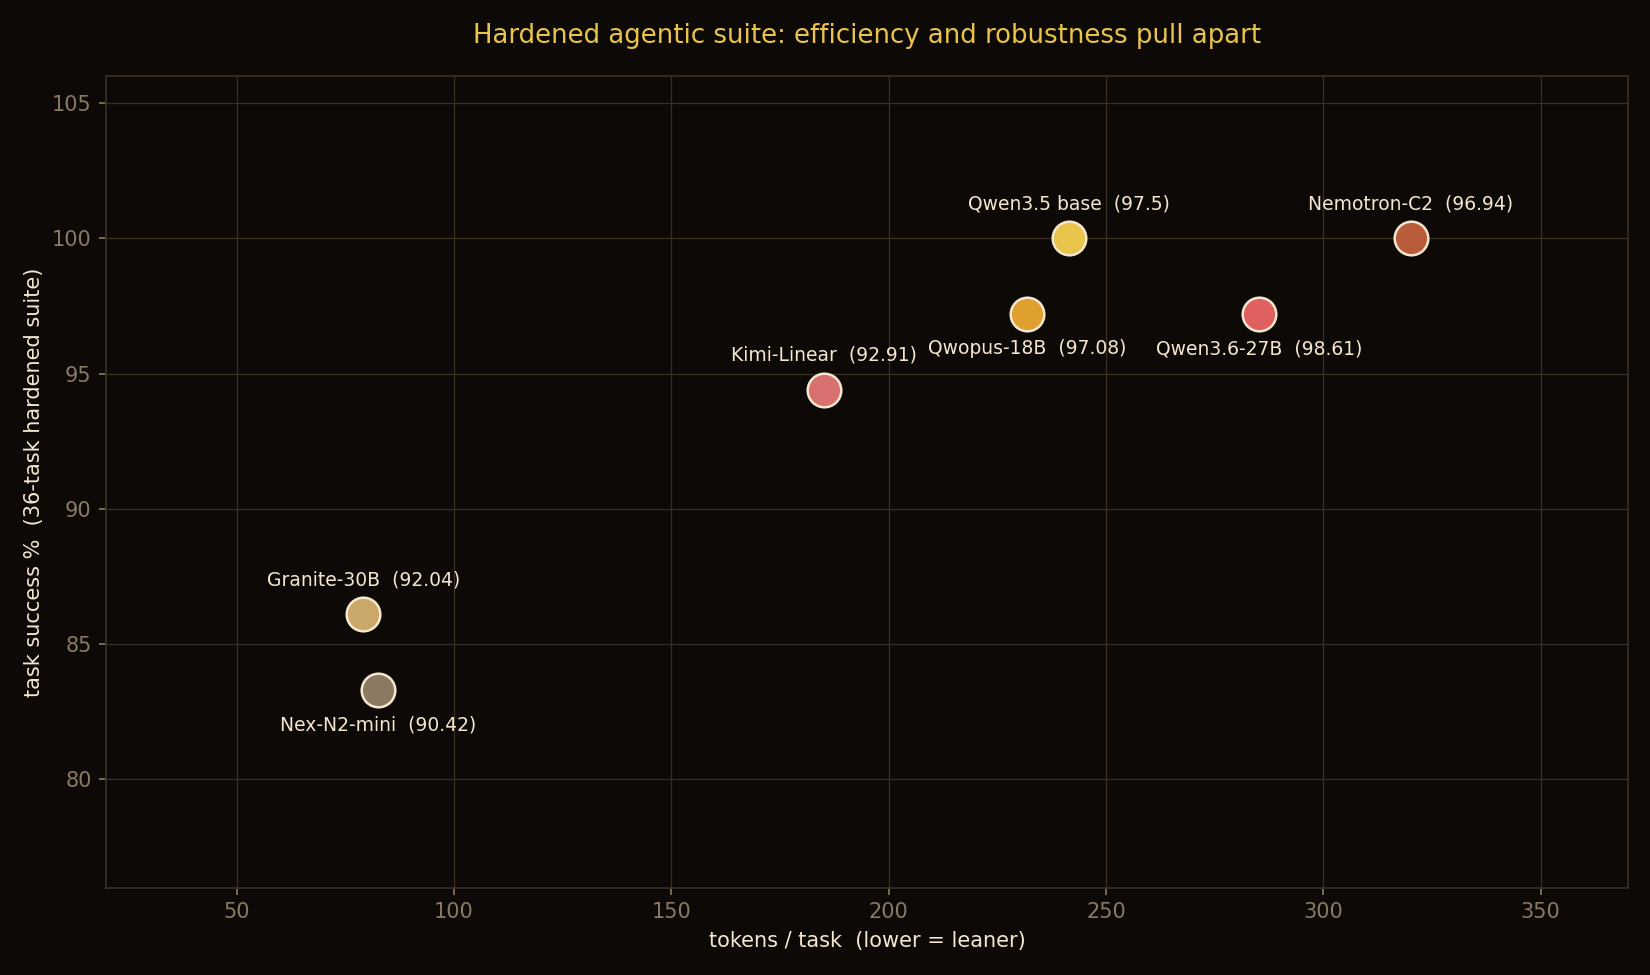
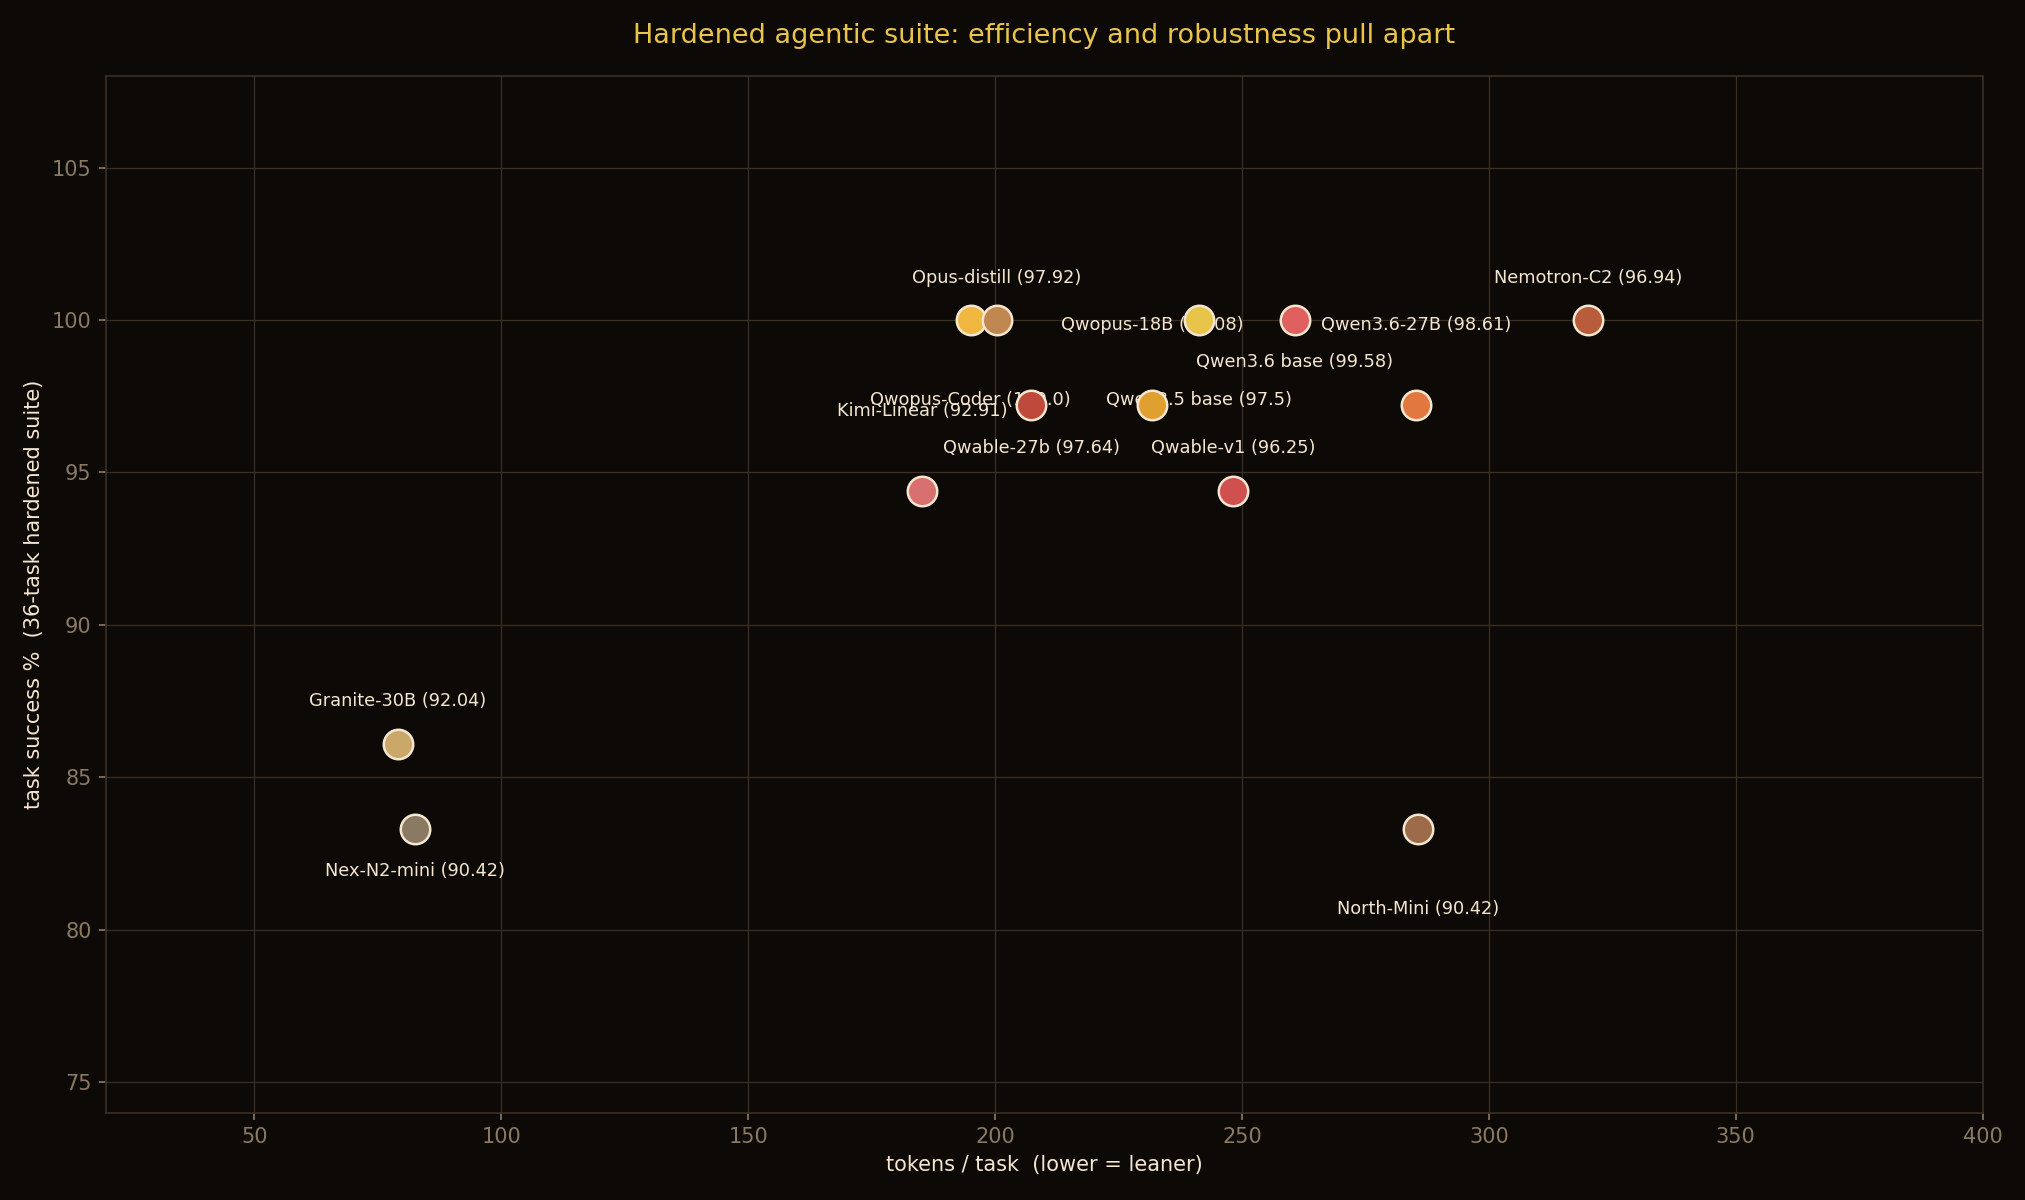
Qwable-3.6-27b: Fable-5 distill regresses real SWE -7 at matched Q4, synthetic missed it
Controlled vs its Qwen3.6-27B base at matched Q4_K_M. Quality (93.4 vs 94.0) and agentic
score (97.64 vs 98.19) stay flat; real SWE-bench Verified drops 18->11/30, give-ups 7->13.
Quant ruled out (base Q6->Q4 = -1 bug). The synthetic agentic board would call it neutral;
the reality anchor caught it -- 3rd documented failure mode. Adds report + flat-cliff chart
+ Qwable row on the agentic leaderboard (now 13 models).

diff --git a/scripts/build_agentic_leaderboard.py b/scripts/build_agentic_leaderboard.py
@@ -7,7 +7,7 @@ import json, csv
 from collections import Counter
 from pathlib import Path
 
-DATE = "2026-06-12"  # stamp; bench rig has no live clock in workflow contexts
+DATE = "2026-06-17"  # stamp; bench rig has no live clock in workflow contexts
 
 # slug -> display metadata (the result JSON carries the metrics; this carries identity)
 META = {
@@ -42,6 +42,9 @@ META = {
     "qwable-v1":           {"name": "Qwable-v1", "params": "35B-A3B", "quant": "Q5_K_M",
                             "repo": "lordx64/Qwable-v1-GGUF",
                             "note": "base + Opus-4.7 reasoning distill + Fable-5 agentic SFT. Each step LOWERS the agentic score (99.58→97.92→96.25) and real resolve drops 19→11/30 vs the vanilla base — the distillation regressed agentic-coding capability (not a mirage: synthetic fairly predicts real here)"},
+    "qwable-27b-q4-k-m":   {"name": "Qwable-3.6-27b", "params": "27B", "quant": "Q4_K_M",
+                            "repo": "Mia-AiLab/Qwable-3.6-27b",
+                            "note": "dense Qwen3.6-27B + Fable-5-style reasoning/instruction SFT. Matched-Q4 vs its base: quality AND agentic stay flat (97.64 vs 98.19), but real SWE-bench resolve drops 18→11/30 and give-ups rise 7→13 — a genuine bug-fixing regression the synthetic score MISSED (unlike the MoE Qwable-v1, whose agentic score declined). The anchor caught it; quant ruled out (base Q6→Q4 = −1 bug)"},
 }
 
 rows = []
@@ -143,11 +146,13 @@ not blended into the score (so a 128K VRAM wall doesn't corrupt it):
 
 Calibration-grade (synthetic, deterministic, re-runnable) — and **reality-anchored**: across all 8 models on
 30 real SWE-bench Verified bugs, the synthetic score predicts real-bug *rank* (Spearman ρ=0.76) and
-moderately predicts resolve rate (Pearson r=0.59). Two known failure modes, both caught by the anchor:
+moderately predicts resolve rate (Pearson r=0.59). Three known failure modes, all caught by the anchor:
 it over-ranks models that drive tools fluently but don't commit fixes (Nemotron-Cascade-2: synthetic #5,
-real last), and it over-ranks models whose training data overlaps the bench's flavor (Qwopus3.6-27B-Coder:
+real last); it over-ranks models whose training data overlaps the bench's flavor (Qwopus3.6-27B-Coder:
 trained on Hermes agent traces, posts a perfect 100 synthetic — then resolves fewer real bugs than its own
-base model, 57% vs 63%). Read the top of the board with the anchor open (see `reality-anchor/`).
+base model, 57% vs 63%); and it can **miss a regression entirely** when a distill stays in-distribution on
+the synthetic tasks yet gives up on real bugs (Qwable-3.6-27b: agentic flat vs its base, yet real SWE-bench
+resolve 11/30 vs 18/30 at matched Q4). Read the top of the board with the anchor open (see `reality-anchor/`).
 Harness + unit tests: **[notwitcheer/llm-bench-rig](https://github.com/notwitcheer/llm-bench-rig)**
 (`lib/agentic/native/`).
 

diff --git a/scripts/chart_qwable_27b.py b/scripts/chart_qwable_27b.py
@@ -1,0 +1,50 @@
+"""Gold & Crimson chart for Qwable-3.6-27b: the distill effect is invisible on every cheap eval and
+only shows up on real bugs. Parallel-coordinates 'flat-flat-cliff' — base vs distill across three axes
+(quality q_avg, agentic score, SWE-bench resolve %), all matched Q4_K_M. The two lines hug on quality
+and agentic, then split hard on SWE. Per-axis deltas annotated so the contrast (0.7/0.5 vs 23) is the
+story. Runs on the Mac (system python3 matplotlib)."""
+import matplotlib
+matplotlib.use("Agg")
+import matplotlib.pyplot as plt
+
+BG, GOLD, CRIMSON, TEXT, GRID, MUTE = ("#0d0906", "#e8c44a", "#e06060", "#f5e6d0", "#3a2f25", "#8a7a64")
+
+axes_labels = ["quality\nq_avg", "agentic\nscore", "SWE-bench\nresolve %"]
+x = [0, 1, 2]
+base   = [94.05, 98.19, 60.0]   # base quality is Q6_K (quant moves q_avg <1pt); agentic+SWE are Q4
+qwable = [93.40, 97.64, 36.7]
+deltas = ["Δ0.7", "Δ0.5", "Δ23  (−7 bugs)"]
+
+fig, ax = plt.subplots(figsize=(10, 6.5), facecolor=BG)
+ax.set_facecolor(BG)
+ax.plot(x, base,   color=GOLD,    lw=2.5, marker="o", markersize=9, zorder=3, label="Qwen3.6-27B base (Q4)")
+ax.plot(x, qwable, color=CRIMSON, lw=2.5, marker="o", markersize=9, zorder=3, label="Qwable-3.6-27b (Q4)")
+
+for xi, b, q, d in zip(x, base, qwable, deltas):
+    ax.annotate(f"{b:.1f}", (xi, b), color=GOLD, fontsize=12, fontweight="bold",
+                ha="center", va="bottom", xytext=(0, 8), textcoords="offset points")
+    ax.annotate(f"{q:.1f}", (xi, q), color=CRIMSON, fontsize=12, fontweight="bold",
+                ha="center", va="top", xytext=(0, -10), textcoords="offset points")
+    # delta callout only on the axis that matters (SWE) — the flat ones speak for themselves
+    if xi == 2:
+        ymid = (b + q) / 2
+        ax.annotate(d, (xi, ymid), color=CRIMSON, fontsize=13, fontweight="bold",
+                    ha="right", va="center", xytext=(-14, 0), textcoords="offset points")
+
+ax.set_xticks(x)
+ax.set_xticklabels(axes_labels, color=TEXT, fontsize=11)
+ax.set_xlim(-0.35, 2.55)
+ax.set_ylim(32, 103)
+ax.set_ylabel("score (higher = better, all 0-100)", color=TEXT)
+ax.set_title("every cheap eval says the distill is fine. real bugs say it gave up.",
+             color=GOLD, fontsize=14, pad=18)
+ax.text(0.5, 1.015, "Qwable-3.6-27b vs its Qwen3.6-27B base · matched Q4_K_M · give-ups 7→13 · quant (Q6→Q4) cost the base only 1 bug",
+        transform=ax.transAxes, color=MUTE, fontsize=9.5, ha="center")
+ax.tick_params(colors=TEXT)
+for sp in ax.spines.values():
+    sp.set_color(GRID)
+ax.grid(True, axis="y", color=GRID, alpha=0.4)
+leg = ax.legend(loc="lower left", facecolor=BG, edgecolor=GRID, fontsize=10, labelcolor=TEXT)
+fig.tight_layout()
+fig.savefig("reports/qwable-27b-flat-cliff.png", dpi=150, facecolor=BG)
+print("wrote reports/qwable-27b-flat-cliff.png")

diff --git a/scripts/chart_agentic_leaderboard.py b/scripts/chart_agentic_leaderboard.py
@@ -9,12 +9,13 @@ import numpy as np
 BG, GOLD, CRIMSON, TEXT, GRID, MUTE = ("#0d0906", "#e8c44a", "#e06060", "#f5e6d0", "#3a2f25", "#8a7a64")
 AMBER = "#d8902f"
 
-# 12-model board (ordered by Agentic Score). Warm brand palette, varied for legibility.
+# 13-model board (ordered by Agentic Score). Warm brand palette, varied for legibility.
 MODELS = [
     ("qwopus3-6-27b-coder", "Qwopus3.6-27B-Coder",    "#f0b840"),
     ("qwen3-6-35b-base",    "Qwen3.6-35B-A3B (base)", CRIMSON),
     ("qwen3-6-27b",         "Qwen3.6-27B",            "#e07840"),
     ("qwen3-6-35b-opus-distill", "Qwen3.6-35B Opus-distill", "#c08850"),
+    ("qwable-27b-q4-k-m",   "Qwable-3.6-27b",         "#bf4a3c"),
     ("qwen3-5-35b-base",    "Qwen3.5-35B-A3B (base)", GOLD),
     ("qwopus-glm-18b",      "Qwopus-GLM-18B",         "#e0a030"),
     ("nemotron-cascade-2-30b", "Nemotron-Cascade-2-30B", "#b85c3c"),
@@ -41,7 +42,8 @@ SHORT = {"qwen3-6-27b": "Qwen3.6-27B", "qwen3-5-35b-base": "Qwen3.5 base",
          "kimi-linear-48b-a3b": "Kimi-Linear", "granite-4-1-30b": "Granite-30B",
          "nex-n2-mini": "Nex-N2-mini", "qwopus3-6-27b-coder": "Qwopus-Coder",
          "north-mini-code": "North-Mini", "qwen3-6-35b-base": "Qwen3.6 base",
-         "qwen3-6-35b-opus-distill": "Opus-distill", "qwable-v1": "Qwable-v1"}
+         "qwen3-6-35b-opus-distill": "Opus-distill", "qwable-v1": "Qwable-v1",
+         "qwable-27b-q4-k-m": "Qwable-27b"}
 fig, ax = plt.subplots(figsize=(13.5, 8), facecolor=BG); ax.set_facecolor(BG)
 # sort by x (tokens) and alternate label up/down so x-adjacent points never collide
 by_x = sorted(MODELS, key=lambda m: D[m[0]]["tokens_per_task"])

diff --git a/leaderboard/README.md b/leaderboard/README.md
@@ -18,21 +18,25 @@ How well do local models actually **drive a tool-using agent loop**? Not single-
 benchmarks — a real loop: native OpenAI tool-calling through `llama-server`, multi-step deterministic
 tasks, programmatic verification. Everything runs on a **single RTX 5090 32GB**.
 
-Updated **2026-06-12** · llama.cpp b9562 · `--jinja` native tool-calling · temp 0.
+Updated **2026-06-17** · llama.cpp b9562 · `--jinja` native tool-calling · temp 0.
 
 ## Leaderboard
 
 | # | model | params | Agentic Score | success | tool-eff | tokens/task | chain | multistep | coding | lc@32k | lc@128k |
 |---|---|---|---|---|---|---|---|---|---|---|---|
 | 1 | **Qwopus3.6-27B-Coder** 🏆 | 27B | **100.0** | 100% | 1.00 | 195 | 8/8 | 8/8 | 8/8 | - | - |
-| 2 | **Qwen3.6-27B** | 27B | **98.61** | 97% | 1.00 | 285 | 8/8 | 8/8 | 8/8 | 100% | 100% |
-| 3 | **Qwen3.5-35B-A3B (base)** | 35B-A3B | **97.5** | 100% | 0.88 | 241 | 8/8 | 8/8 | 8/8 | 100% | 50% |
-| 4 | **Qwopus-GLM-18B** | 18B | **97.08** | 97% | 0.92 | 232 | 8/8 | 8/8 | 8/8 | 100% | 100% |
-| 5 | **Nemotron-Cascade-2-30B** | 30B-A3B | **96.94** | 100% | 0.85 | 320 | 8/8 | 8/8 | 8/8 | 50% | 0% |
-| 6 | **Kimi-Linear-48B-A3B** | 48B-A3B | **92.91** | 94% | 0.78 | 185 | 7/8 | 7/8 | 8/8 | 100% | 100% |
-| 7 | **Granite-4.1-30b** | 30B | **92.04** | 86% | 0.95 | 79 | 8/8 | 8/8 | 7/8 | 50% | OOM |
-| 8 | **Nex-N2-mini** | 35B-A3B | **90.42** | 83% | 0.94 | 82 | 7/8 | 7/8 | 7/8 | 100% | 100% |
-| 9 | **North-Mini-Code-1.0** | 30B-A3B | **90.42** | 83% | 0.94 | 286 | 6/8 | 6/8 | 8/8 | - | - |
+| 2 | **Qwen3.6-35B-A3B (base)** | 35B-A3B | **99.58** | 100% | 0.98 | 261 | 8/8 | 8/8 | 8/8 | - | - |
+| 3 | **Qwen3.6-27B** | 27B | **98.61** | 97% | 1.00 | 285 | 8/8 | 8/8 | 8/8 | 100% | 100% |
+| 4 | **Qwen3.6-35B-A3B Opus-distill** | 35B-A3B | **97.92** | 100% | 0.90 | 200 | 8/8 | 8/8 | 8/8 | - | - |
+| 5 | **Qwable-3.6-27b** | 27B | **97.64** | 97% | 0.95 | 207 | 8/8 | 8/8 | 8/8 | - | - |
+| 6 | **Qwen3.5-35B-A3B (base)** | 35B-A3B | **97.5** | 100% | 0.88 | 241 | 8/8 | 8/8 | 8/8 | 100% | 50% |
+| 7 | **Qwopus-GLM-18B** | 18B | **97.08** | 97% | 0.92 | 232 | 8/8 | 8/8 | 8/8 | 100% | 100% |
+| 8 | **Nemotron-Cascade-2-30B** | 30B-A3B | **96.94** | 100% | 0.85 | 320 | 8/8 | 8/8 | 8/8 | 50% | 0% |
+| 9 | **Qwable-v1** | 35B-A3B | **96.25** | 94% | 0.95 | 248 | 7/8 | 8/8 | 8/8 | - | - |
+| 10 | **Kimi-Linear-48B-A3B** | 48B-A3B | **92.91** | 94% | 0.78 | 185 | 7/8 | 7/8 | 8/8 | 100% | 100% |
+| 11 | **Granite-4.1-30b** | 30B | **92.04** | 86% | 0.95 | 79 | 8/8 | 8/8 | 7/8 | 50% | OOM |
+| 12 | **Nex-N2-mini** | 35B-A3B | **90.42** | 83% | 0.94 | 82 | 7/8 | 7/8 | 7/8 | 100% | 100% |
+| 13 | **North-Mini-Code-1.0** | 30B-A3B | **90.42** | 83% | 0.94 | 286 | 6/8 | 6/8 | 8/8 | - | - |
 
 *tool-eff = tool calls vs optimal (1.0 = no wasted calls). tokens/task = avg completion tokens (lower =
 leaner). A sub-5% score gap is a tie.*
@@ -59,21 +63,27 @@ not blended into the score (so a 128K VRAM wall doesn't corrupt it):
 
 Calibration-grade (synthetic, deterministic, re-runnable) — and **reality-anchored**: across all 8 models on
 30 real SWE-bench Verified bugs, the synthetic score predicts real-bug *rank* (Spearman ρ=0.76) and
-moderately predicts resolve rate (Pearson r=0.59). Two known failure modes, both caught by the anchor:
+moderately predicts resolve rate (Pearson r=0.59). Three known failure modes, all caught by the anchor:
 it over-ranks models that drive tools fluently but don't commit fixes (Nemotron-Cascade-2: synthetic #5,
-real last), and it over-ranks models whose training data overlaps the bench's flavor (Qwopus3.6-27B-Coder:
+real last); it over-ranks models whose training data overlaps the bench's flavor (Qwopus3.6-27B-Coder:
 trained on Hermes agent traces, posts a perfect 100 synthetic — then resolves fewer real bugs than its own
-base model, 57% vs 63%). Read the top of the board with the anchor open (see `reality-anchor/`).
+base model, 57% vs 63%); and it can **miss a regression entirely** when a distill stays in-distribution on
+the synthetic tasks yet gives up on real bugs (Qwable-3.6-27b: agentic flat vs its base, yet real SWE-bench
+resolve 11/30 vs 18/30 at matched Q4). Read the top of the board with the anchor open (see `reality-anchor/`).
 Harness + unit tests: **[notwitcheer/llm-bench-rig](https://github.com/notwitcheer/llm-bench-rig)**
 (`lib/agentic/native/`).
 
 ## Notes per model
 
 - **Qwopus3.6-27B-Coder** (Jackrong/Qwopus3.6-27B-Coder-MTP-GGUF): coder SFT of Qwopus3.6-v2; trained on Hermes agent traces — partially in-distribution for this bench (see reality anchor)
+- **Qwen3.6-35B-A3B (base)** (unsloth/Qwen3.6-35B-A3B-GGUF): vanilla generalist base — Qwable's untuned starting point; tops the board and ties best real SWE-bench resolve (19/30)
 - **Qwen3.6-27B** (unsloth/Qwen3.6-27B-GGUF): dense 27B; the model Donald itself runs
+- **Qwen3.6-35B-A3B Opus-distill** (mradermacher/Qwen3.6-35B-A3B-Claude-4.7-Opus-Reasoning-Distilled-GGUF): base + Claude Opus-4.7 reasoning distill — the intermediate step before Qwable's Fable-5 agentic SFT
+- **Qwable-3.6-27b** (Mia-AiLab/Qwable-3.6-27b): dense Qwen3.6-27B + Fable-5-style reasoning/instruction SFT. Matched-Q4 vs its base: quality AND agentic stay flat (97.64 vs 98.19), but real SWE-bench resolve drops 18→11/30 and give-ups rise 7→13 — a genuine bug-fixing regression the synthetic score MISSED (unlike the MoE Qwable-v1, whose agentic score declined). The anchor caught it; quant ruled out (base Q6→Q4 = −1 bug)
 - **Qwen3.5-35B-A3B (base)** (bartowski/Qwen_Qwen3.5-35B-A3B-GGUF): generalist base, no agentic post-train
 - **Qwopus-GLM-18B** (KyleHessling1/Qwopus-GLM-18B-Merged-GGUF): GLM-based community merge
 - **Nemotron-Cascade-2-30B** (bartowski/nvidia_Nemotron-Cascade-2-30B-A3B-GGUF): Nvidia; the rig's prior speed-king
+- **Qwable-v1** (lordx64/Qwable-v1-GGUF): base + Opus-4.7 reasoning distill + Fable-5 agentic SFT. Each step LOWERS the agentic score (99.58→97.92→96.25) and real resolve drops 19→11/30 vs the vanilla base — the distillation regressed agentic-coding capability (not a mirage: synthetic fairly predicts real here)
 - **Kimi-Linear-48B-A3B** (bartowski/moonshotai_Kimi-Linear-48B-A3B-Instruct-GGUF): linear-attention; runs natively on one 5090; long-context untested here
 - **Granite-4.1-30b** (unsloth/granite-4.1-30b-GGUF): leanest competent agent on the board
 - **Nex-N2-mini** (eramax/Nex-N2-mini-gguf): agentic post-train of Qwen3.5; Adaptive Thinking

diff --git a/reports/qwable-3.6-27b-q4.md b/reports/qwable-3.6-27b-q4.md
@@ -1,0 +1,38 @@
+# Qwable-3.6-27b: the distill every cheap eval passes and SWE-bench fails
+
+**Rig:** one RTX 5090 32GB · llama.cpp 9dbc662 (qwen35) · llama-server `--jinja` native tool-calling · Q4_K_M, base vs distill matched (no quant confound)
+**Model:** [Mia-AiLab/Qwable-3.6-27b](https://huggingface.co/Mia-AiLab/Qwable-3.6-27b) — a full finetune of **Qwen3.6-27B** (dense) on a *"cleaned Fable-5-style reasoning/instruction"* dataset, aimed at "deliberate, structured, trace-like" coding behavior. Experimental, no published evals. Ships **only as a Q4_K_M GGUF** (no safetensors).
+**Setup:** the rig's native Agentic Score (40 tool-calling tasks) + the SWE-bench Verified reality anchor (30-bug subset, official Docker harness) + the 5-task quality suite. Controlled vs its own base **Qwen3.6-27B at the same Q4_K_M** — and because Qwable only exists at Q4, we benched the base at Q4 too, so any gap is the distill, not the quant.
+
+## The numbers (matched Q4_K_M)
+
+| axis | Qwen3.6-27B base | Qwable-3.6-27b | distill effect |
+|---|---|---|---|
+| quality q_avg | 94.05\* | 93.40 | −0.65 (flat) |
+| agentic score | 98.19 | 97.64 | −0.55 (flat) |
+| **SWE-bench resolved** | **18/30 (60%)** | **11/30 (37%)** | **−7 bugs** |
+| **give-ups (empty patches)** | **7** | **13** | **+6** |
+
+<sub>\*base quality is Q6_K (we skipped base-Q4 quality); quant moves q_avg <1pt. Agentic task-success is **identical** at 97.2% — the score gap is tool-efficiency only.</sub>
+
+**Static quality flat. Synthetic agentic flat. Real bug-fixing fell off a cliff.** The distill resolves 7 fewer of the *same* 30 bugs and gives up almost twice as often — while two cheaper benchmarks shrug.
+
+## Quant is not the excuse
+
+Qwable only ships at Q4_K_M, so we benched the base at Q4 too. Q6→Q4 on the base cost **1 bug** (19→18) and merely *reshuffled* ~3 instances — a minor, near-random perturbation. On agentic the quant cost (−0.42, 98.61→98.19) and the distill cost (−0.55) are the same negligible order — *neither* cheap benchmark separates these models. Only the real bugs do: the −7 is the post-training, full stop.
+
+## What it means
+
+- **The give-up tell, hidden.** The 8 bugs the base solved that Qwable abandoned span **6 projects** (astropy, matplotlib ×2, requests, xarray ×2, scikit-learn, sphinx) — distributed, not a fluke. The empty-patch rate jumping 7→13 is the mechanism: the Fable-5 trace-style SFT taught it to emit fewer, more cautious trajectories, not to solve more. Same failure family as last session's MoE Qwable-v1 (also landed 11/30).
+- **But this time the synthetic score lied.** The MoE Qwable-v1's agentic score *declined* (96.25) and honestly predicted its real drop. This dense one's agentic score stays **flat** (97.64 vs 98.19, identical 97.2% task-success) — it sails through the in-distribution tool-calling tasks and only face-plants on the persistence-under-ambiguity that real bugs demand. So the agentic board is now documented to *sometimes* miss the regression. Third entry in the catalog: nemotron drives-but-never-commits, qwopus in-distribution-mirage, and now **distill-flat-synthetic, real-give-up**.
+- **The base is the story's other half.** Vanilla Qwen3.6-27B at Q4 still resolves 18/30 — top-tier, matching the dense base's reputation. The "agentic coder" relabel made a strong base worse on the one axis that's hard to fake.
+
+## Honest caveats
+
+- Single seed, 30-bug subset — the *direction* (−7 resolved, give-ups up) is the robust signal, not the exact counts. base-Q4 vs Qwable-Q4 is the airtight pair; base quality is Q6 (quant <1pt).
+- Different recipe/size from the MoE Qwable-v1 (35B-A3B, Q5, explicit Opus-4.7 distill stage). The cross-model "synthetic honest vs synthetic fooled" contrast is an observation across two distills, not a controlled pair.
+- This measures *this* checkpoint's Fable-5-style SFT, not "agentic distillation" in general.
+
+## Reproduce
+
+`gate_and_run.sh <gguf> <slug>` (native Agentic Score, Donald-safe) + `swe_gen_one.sh`/`swe_grade_one.sh` (SWE-bench gen + official grade, 30-bug `swebench_ids_30.txt`) + `run_treatment.sh` (quality) + `build_agentic_leaderboard.py` (META line + re-run). Two models (base + distill) at matched Q4, ~5h on one 5090.
